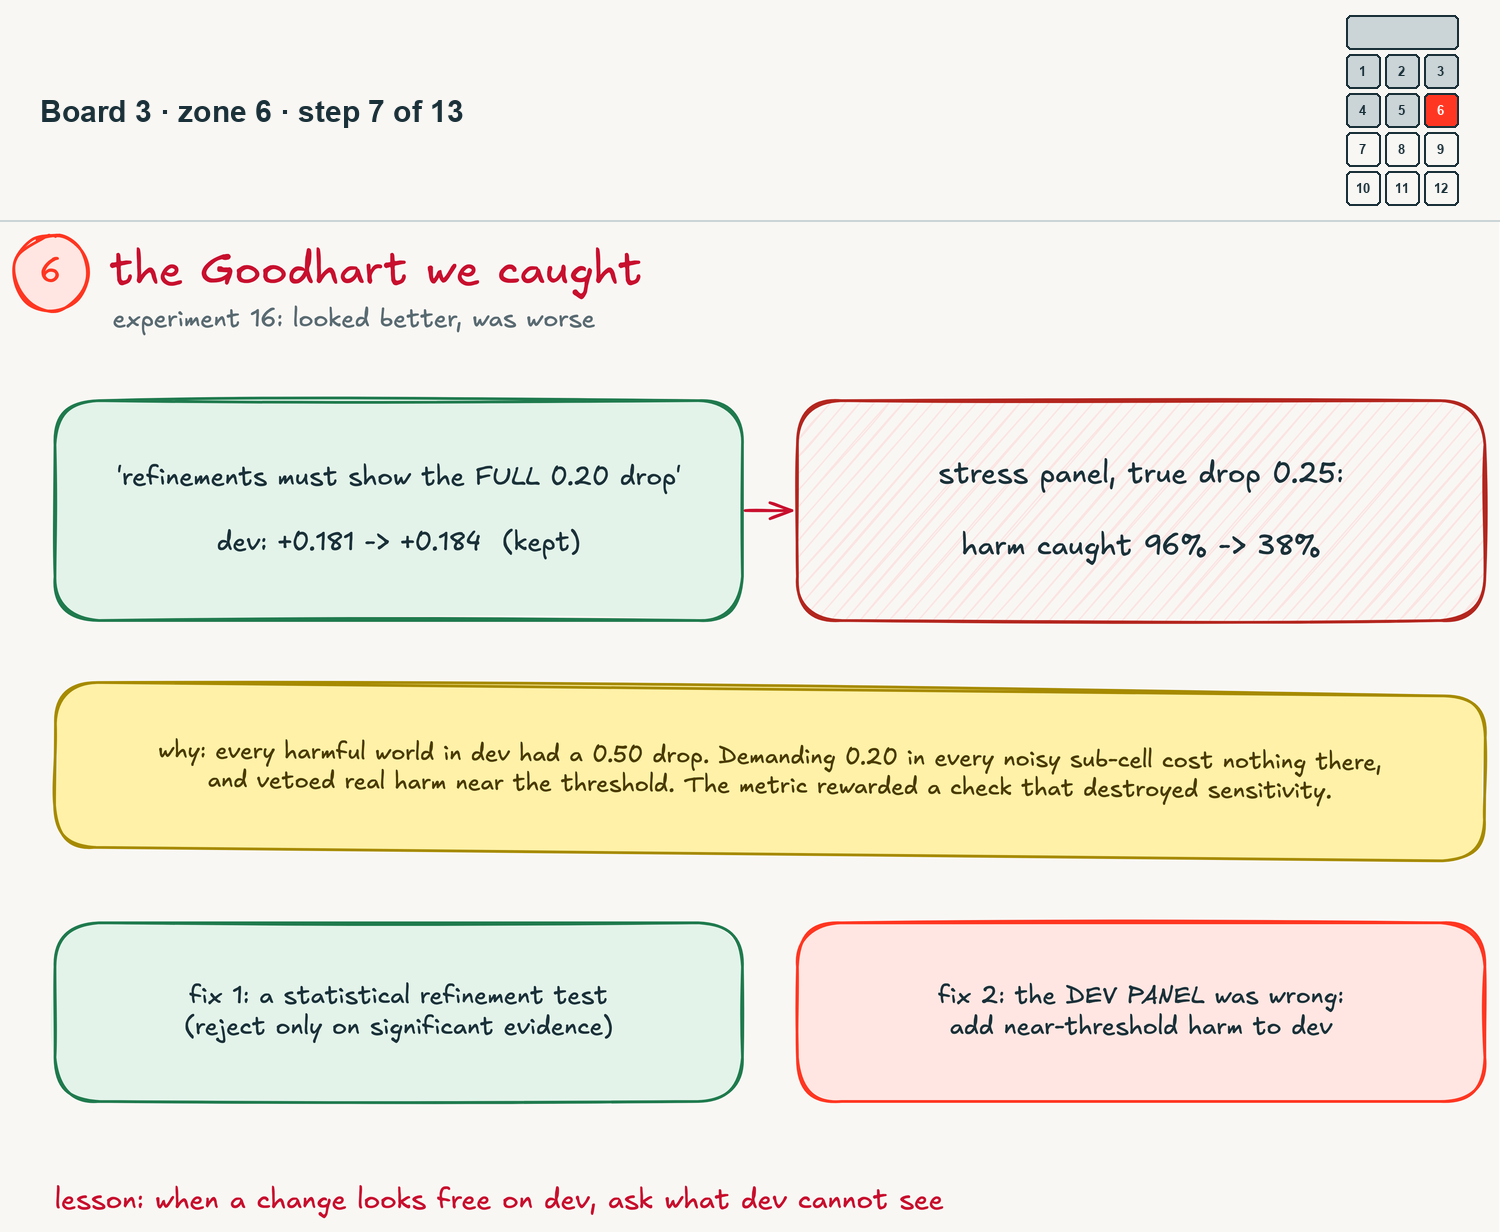
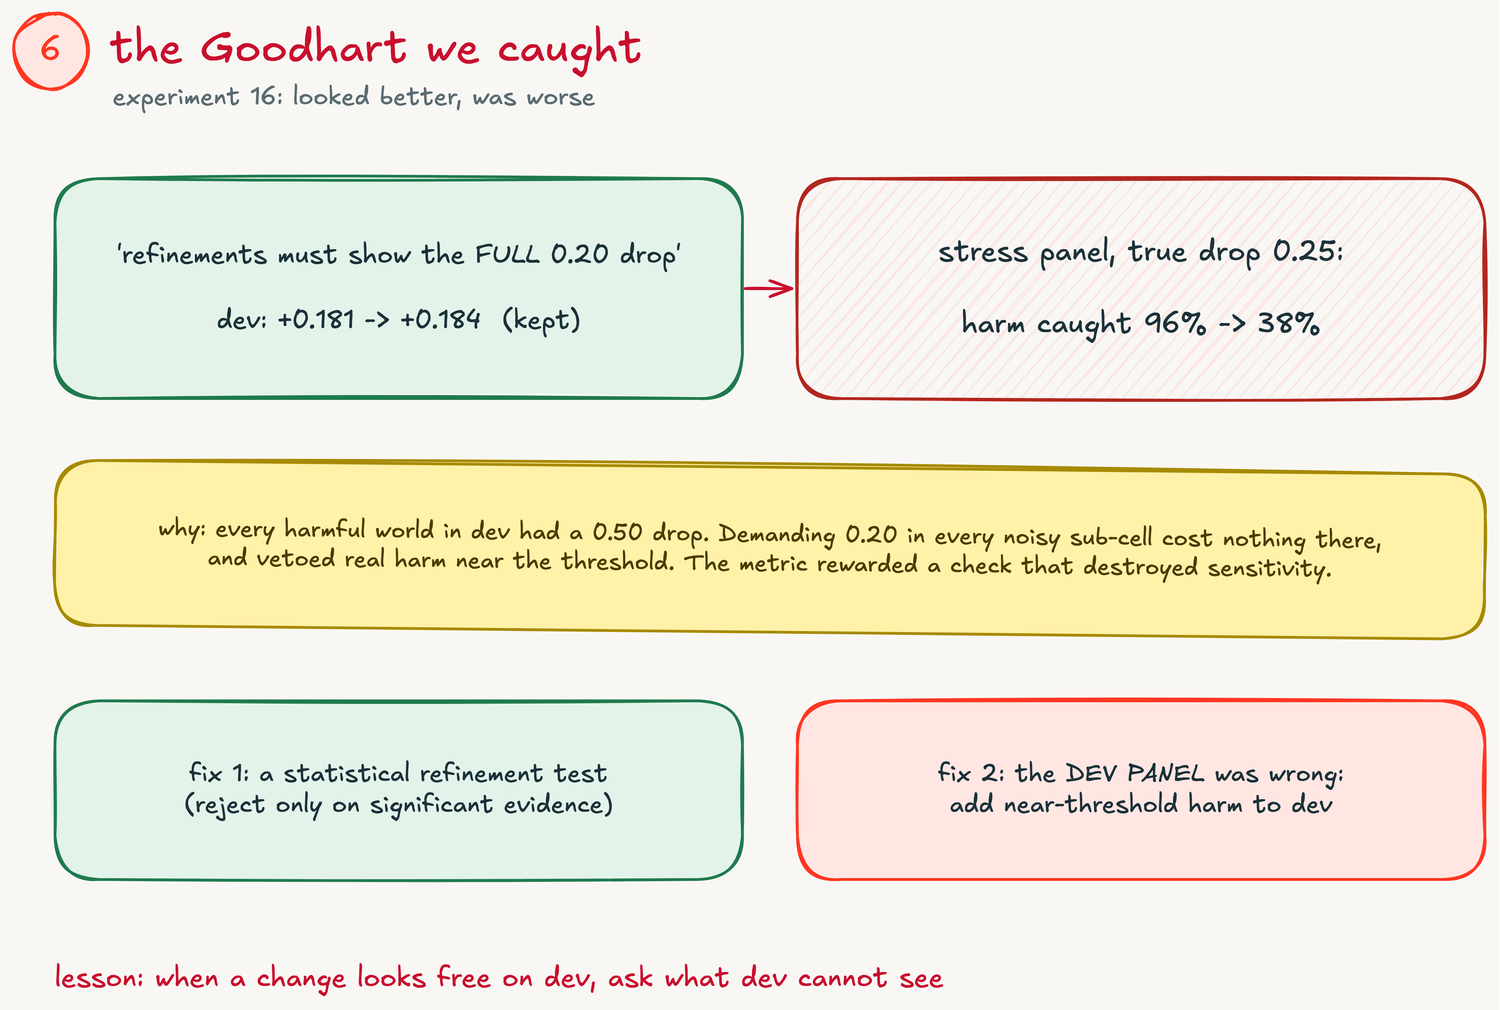
blog: figures are plain board crops (no header band or locator), text updated in both posts

diff --git a/blog/make_figures.py b/blog/make_figures.py
@@ -77,6 +77,11 @@ def locator(board, current, cell=34, gap=5):
     return im
 
 
+def plain(img, width):
+    """the figure is the board crop only: no header band, no locator (Hadi, 2026-10-22)"""
+    return img.resize((width, int(width * img.size[1] / img.size[0])), Image.LANCZOS)
+
+
 def with_header(img, board, zone, title, width):
     """Resize the zone render and add a header band: label on the left, locator on the right."""
     img = img.resize((width, int(width * img.size[1] / img.size[0])), Image.LANCZOS)
@@ -93,12 +98,14 @@ def with_header(img, board, zone, title, width):
 
 def main():
     d = json.load(open(BOARD)); os.makedirs(os.path.join(HERE, "_crops"), exist_ok=True)
-    for f in os.listdir(os.path.join(HERE, "img")):
-        if f.endswith(".png"): os.remove(os.path.join(HERE, "img", f))  # stale figures from the old layout
+    for z in ZONES.values():   # only this script's own figures (the architecture diagram and board 3 live here too)
+        for name, *_ in z.values():
+            q = os.path.join(HERE, "img", name + ".png")
+            if os.path.exists(q): os.remove(q)
     for board, zones in ZONES.items():
         for zone, (name, (x0, x1), (y0, y1), title) in zones.items():
             w = 2000 if name in WIDE else 1500
-            with_header(crop_board(d, name, x0, x1, y0, y1), board, zone, title, w).save(os.path.join(HERE, "img", name + ".png"), optimize=True)
+            plain(crop_board(d, name, x0, x1, y0, y1), w).save(os.path.join(HERE, "img", name + ".png"), optimize=True)
             print(name, flush=True)
     # recap overviews, rendered one row at a time so the browser never clips a tall canvas, then stacked
     for board, (x0, x1), rows in [(1, (-50, 3500), [(-50, 175), R1, R2, R3, R4]),

diff --git a/blog/make_figures_ar.py b/blog/make_figures_ar.py
@@ -23,7 +23,7 @@ def main():
     d = json.load(open(BOARD3)); os.makedirs(os.path.join(HERE, "_crops"), exist_ok=True)
     for zone, (name, (x0, x1), (y0, y1), title) in ZONES3.items():
         w = 2000 if zone == 0 else 1500
-        MF.with_header(MF.crop_board(d, name, x0, x1, y0, y1), 3, zone, title, w).save(os.path.join(HERE, "img", name + ".png"), optimize=True)
+        MF.plain(MF.crop_board(d, name, x0, x1, y0, y1), w).save(os.path.join(HERE, "img", name + ".png"), optimize=True)
         print(name, flush=True)
     rows = [(0, 1080)] + [(180 + r * 930, 180 + r * 930 + 900) for r in range(1, 4)]
     parts = [MF.crop_board(d, f"b3_recap_r{i}", 20, 3440, a, b, anchors=True) for i, (a, b) in enumerate(rows)]

diff --git a/blog/BLOG.md b/blog/BLOG.md
@@ -22,7 +22,7 @@ After four rounds of external review, five seeds, 180 simulation runs, one real 
 
 The rest of this post goes down the pyramid: why the problem matters, the idea, the evidence, then the full technical detail for anyone who wants to rebuild it.
 
-**How to read the figures.** This work lives on two hand-drawn whiteboards. Board 1 is my study of the paper that started it; board 2 is Corporate Case Law. Neither is shown whole up front. Each figure is one zone, and the small map in its top-right corner tells you where you are: the red cell is the zone you are looking at, grey cells are zones you have already seen, white cells are still to come. Each full board appears only once you have walked all of it. Every number on board 2 is read from the result files.
+**How to read the figures.** This work lives on two hand-drawn whiteboards. Board 1 is my study of the paper that started it; board 2 is Corporate Case Law. Neither is shown whole up front. Each figure is one zone, in reading order. Each full board appears only once you have walked all of it. Every number on board 2 is read from the result files.
 
 ---
 

diff --git a/blog/BLOG_AUTORESEARCH.md b/blog/BLOG_AUTORESEARCH.md
@@ -23,7 +23,7 @@ Here is where it landed:
 3. **The most valuable thing the loop produced was not a better method. It was a better way of testing**: a frozen harness the agent cannot touch, a rule that the agent may only decide on one panel, pre-registered tests with hashes, and a rule for when to stop.
 4. **The result is narrow.** Same family of simulated worlds, untuned baselines, parity not superiority, and no real firm yet.
 
-Each figure below is one zone of a single hand-drawn whiteboard (board 3). The small map in the top-right corner of each figure shows where you are on the board. The full board comes at the end.
+Each figure below is one zone of a single hand-drawn whiteboard (board 3). The full board comes at the end.
 
 ![Board 3, header](img/b3_z00_header.png)
 *Figure 1. Board 3, header: autoresearch adapted to Corporate Case Law, with who did what written on the board itself.*
